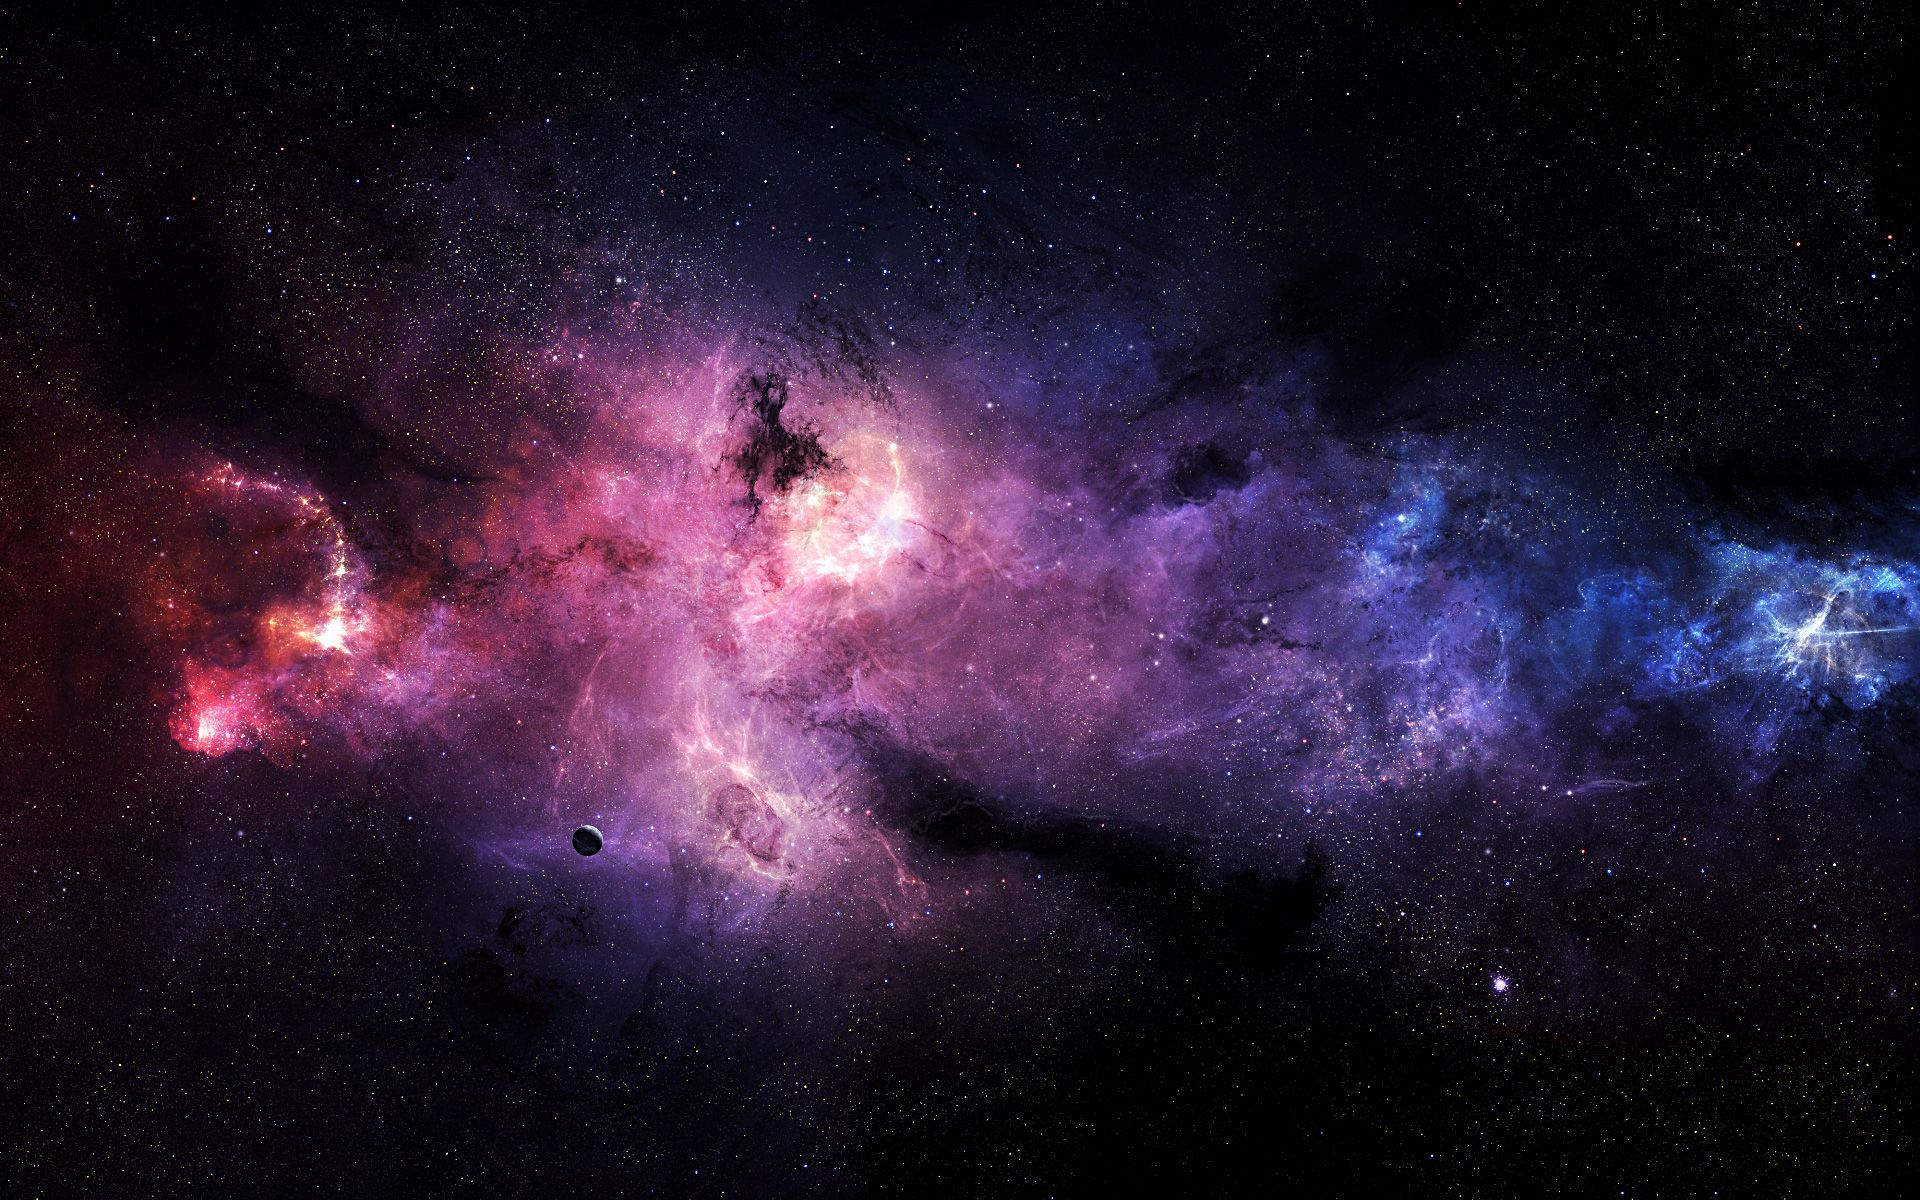
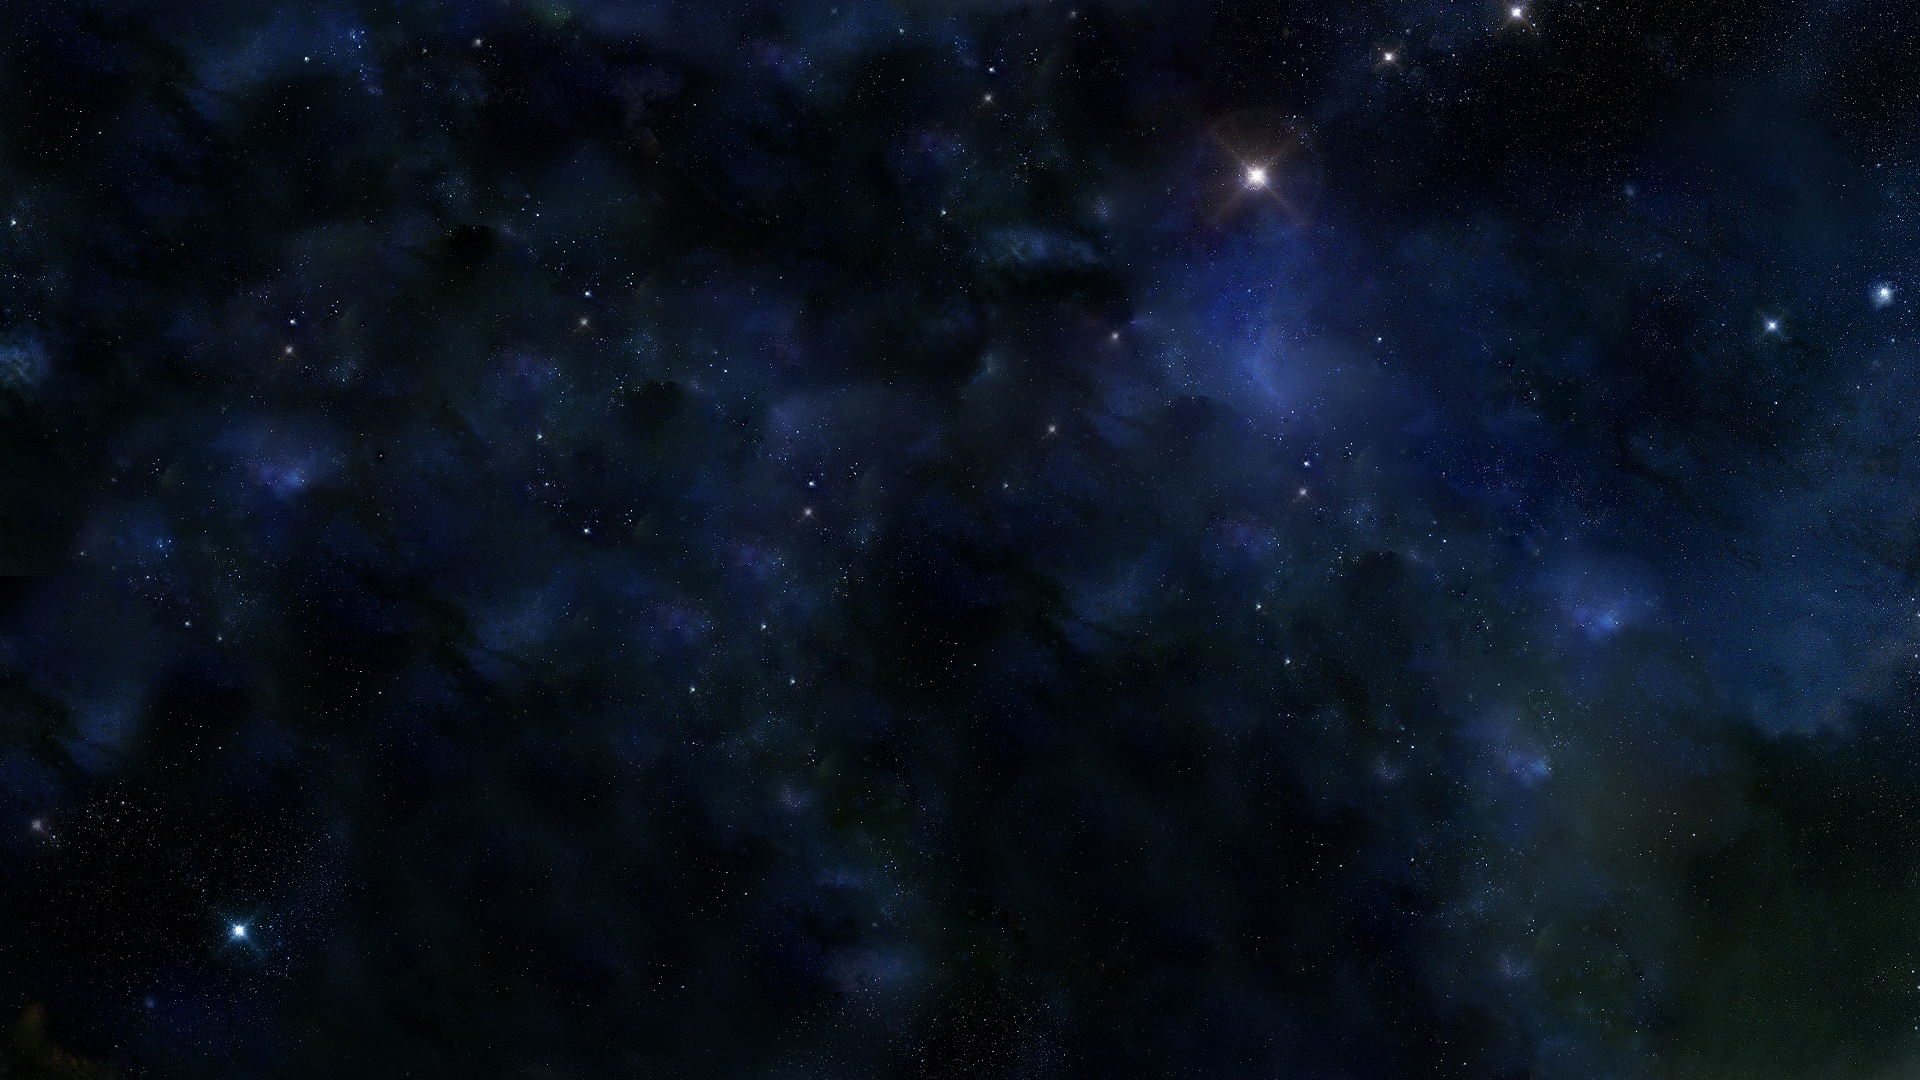
Added start and win screens, changed game background image

diff --git a/andromeda.py b/andromeda.py
@@ -1,7 +1,7 @@
 import pygame, random
 pygame.init();
 
-from pygame.locals import QUIT, K_ESCAPE, KEYDOWN, K_DOWN, K_LEFT, K_UP, K_RIGHT, KEYUP, K_SPACE
+from pygame.locals import QUIT, KEYDOWN, K_DOWN, K_LEFT, K_UP, K_RIGHT, KEYUP, K_SPACE, K_RETURN
 
 X_MAX, Y_MAX = 800, 600
 
@@ -16,7 +16,19 @@ LEFT, RIGHT, UP, DOWN = 0, 1, 3, 4
 START, STOP = 0, 1
 
 
-#Start screen
+class Start(pygame.sprite.Sprite):
+    def __init__(self):
+        super(Start, self).__init__()
+        self.image = pygame.Surface((300, 100))
+        self.rect = self.image.get_rect()
+        self.rect.center = (X_MAX/2, Y_MAX/2)
+        self.font = pygame.font.Font("fonts/ScreenMatrix.ttf", 30)
+
+    def update(self):
+        begin = self.font.render("PRESS ENTER TO START", True, (255, 255, 255))
+        self.image.fill((0, 0, 0))
+        self.image.set_colorkey((0, 0, 0))
+        self.image.blit(begin, (30, 30))
 
 class Asteroid(pygame.sprite.Sprite):
     def __init__(self):
@@ -185,29 +197,13 @@ class Spaceship(pygame.sprite.Sprite):
             #edit so that spaceship can't hide out beyond the screen
 
     def steer(self, direction, operation):
-        v = 10
+        v = 8
         if operation == START:
             if direction in (UP, DOWN):
                 self.dy = {UP: -v, DOWN: v}[direction]
-                # if direction == UP:
-                #     self.image = pygame.image.load("images/spaceship.png").convert_alpha()
-                #     self.image = pygame.transform.smoothscale(self.image, (55, 75)) 
-
-                # if direction == DOWN:
-                #     self.image = pygame.image.load("images/spaceship_d.png").convert_alpha()
-                #     self.image = pygame.transform.smoothscale(self.image, (55, 75))
 
             if direction in (LEFT, RIGHT):
-                self.dx = {LEFT: -v, RIGHT: v}[direction]
-                # if direction == RIGHT:
-                #     self.image = pygame.image.load("images/spaceship_r.png").convert_alpha()
-                #     self.image = pygame.transform.smoothscale(self.image, (75, 55))
-
-                # if direction == LEFT:
-                #     self.image = pygame.image.load("images/spaceship_l.png").convert_alpha()
-                #     self.image = pygame.transform.smoothscale(self.image, (75, 55))                    
-
-        #edit this so that no movement can result from two or more keys pressed simultaneously
+                self.dx = {LEFT: -v, RIGHT: v}[direction]                  
 
         if operation == STOP:
             if direction in (UP, DOWN):
@@ -228,12 +224,28 @@ class Particle(pygame.sprite.Sprite):
         self.image.fill((255, 255, 255))
         #maybe draw a more creative shape 
         self.rect = self.image.get_rect()
-        self.rect.center = (x-2, y-40)
+        self.rect.center = (x-1, y-40)
 
     def update(self):
         self.rect.y -=15
         if self.rect.y < -10:
             self.kill()
+
+# class Bits(pygame.sprite.Sprite):
+#     def __init__(self, asteroid):
+#         super(Bits, self).__init__()
+#         self.image = pygame.image.load("images/asteroid_sm_1.png").convert_alpha()
+#         self.image = pygame.transform.smoothscale(self.image, (30, 30))
+#         self.rect = self.image.get_rect()
+#         self.asteroid = asteroid
+
+#     def update(self):
+#         if self.rect.left < 0 or self.rect.right > X_MAX:
+#             speed5[0] = -speed5[0]
+#         if self.rect.top < 0 or self.rect.bottom > Y_MAX:
+#             speed5[1] = -speed5[1]
+
+#         self.rect = self.rect.move(speed5)
 
 class Status(pygame.sprite.Sprite):
     def __init__(self, ship):
@@ -241,7 +253,7 @@ class Status(pygame.sprite.Sprite):
         self.image = pygame.Surface((X_MAX, 30))
         self.rect = self.image.get_rect()
         self.rect.bottomleft = 25, Y_MAX
-        self.font = pygame.font.Font("ScreenMatrix.ttf", 22)
+        self.font = pygame.font.Font("fonts/ScreenMatrix.ttf", 22)
         self.ship = ship
 
     def update(self):
@@ -252,25 +264,87 @@ class Status(pygame.sprite.Sprite):
         self.image.set_colorkey((0, 0, 0))
 
 class Lose(pygame.sprite.Sprite):
-    def __init__(self, ship):
+    def __init__(self, ship, asteroids, status):
         super(Lose, self).__init__()
-        self.image = pygame.Surface((300, 100))
+        self.image = pygame.Surface((500, 200))
         self.rect = self.image.get_rect()
         self.rect.center = (X_MAX/2, Y_MAX/2)
-        self.font = pygame.font.Font("ScreenMatrix.ttf", 45)
+        self.font = pygame.font.Font("fonts/ScreenMatrix.ttf", 45)
+        self.font2 = pygame.font.Font("fonts/ScreenMatrix.ttf", 30)
         self.ship = ship
+        self.asteroids = asteroids
+        self.status = status
 
     def update(self):
         sorry = self.font.render("GAME OVER", True, (255, 255, 255))
+        score = self.font2.render("High Score: {}".format(
+            self.ship.score), True, (255, 255, 255))
         self.image.fill((0, 0, 0))
         self.image.set_colorkey((0, 0, 0))
-        #changing the suface color and then removing it creates an outline of that color for text (so long as text is not also that color)
-        if self.ship.health < 0:
+        if self.ship.health <= 0:
             self.ship.kill()
-            self.image.blit(sorry, (30, 30))
+            for asteroid in self.asteroids:
+                asteroid.kill()
+            self.status.kill()
+            self.image.blit(sorry, (120, 80))
+            self.image.blit(score, (132, 120))
                       
-#Win screen
+class Win(pygame.sprite.Sprite):
+    def __init__(self, ship, asteroids, status):
+        super(Win, self).__init__()
+        self.image = pygame.Surface((500, 200))
+        self.rect = self.image.get_rect()
+        self.rect.center = (X_MAX/2, Y_MAX/2)
+        self.font = pygame.font.Font("fonts/ScreenMatrix.ttf", 45)
+        self.font2 = pygame.font.Font("fonts/ScreenMatrix.ttf", 30)
+        self.ship = ship
+        self.asteroids = asteroids
+        self.status = status       
 
+    def update(self):
+        hurray = self.font.render("YOU WIN", True, (255, 255, 255))
+        score = self.font2.render("High Score: {}".format(
+            self.ship.score), True, (255, 255, 255))
+        self.image.fill((0, 0, 0))
+        self.image.set_colorkey((0, 0, 0))
+        if self.ship.score >= 20:
+            self.ship.kill()
+            for asteroid in self.asteroids:
+                asteroid.kill()
+            self.status.kill()
+            self.image.blit(hurray, (155, 80))
+            self.image.blit(score, (132, 120))
+
+# def intro():
+
+#     screen = pygame.display.set_mode((X_MAX, Y_MAX))
+#     pygame.display.set_caption("Andromeda")  
+
+#     background = pygame.image.load('images/background1.jpg').convert()
+#     background = pygame.transform.scale(background, (X_MAX, Y_MAX))
+
+#     start = Start()
+#     letsplay = pygame.sprite.Group()
+#     letsplay.add(start)
+
+#     game_over = False
+
+#     while not game_over:
+#         for event in pygame.event.get():
+#             if event.type == QUIT:
+#                 game_over = True
+#             if not game_over:
+#                 if event.type == KEYDOWN and event.key == K_RETURN:
+#                     return
+
+#         screen.blit(background, (0, 0))
+#         letsplay.update()
+#         letsplay.draw(screen)
+#         pygame.display.flip()
+
+#     pygame.quit()
+
+# intro()
 
 def main():
 
@@ -280,17 +354,19 @@ def main():
     background = pygame.image.load('images/background1.jpg').convert()
     background = pygame.transform.scale(background, (X_MAX, Y_MAX))
 
-    all_sprites = pygame.sprite.Group() #list of all sprites
-    asteroids = pygame.sprite.Group() #list of all asteroids
-    weaponfire = pygame.sprite.Group() #list of particles
+    all_sprites = pygame.sprite.Group() 
+    asteroids = pygame.sprite.Group() 
+    weaponfire = pygame.sprite.Group() 
 
     ship = Spaceship(all_sprites, weaponfire)
+    #bits = Bits(asteroids)
     status = Status(ship)
-    lose = Lose(ship)
-
+    lose = Lose(ship, asteroids, status)
+    win = Win(ship, asteroids, status)
+    
     asteroids.add(Asteroid(), Asteroid2(), Asteroid3(), Asteroid4(), Asteroid5(), Asteroid6())
 
-    all_sprites.add(ship, status, lose, asteroids)
+    all_sprites.add(ship, status, asteroids) #add start, win, lose later
 
     game_over = False
 
@@ -322,8 +398,6 @@ def main():
                         ship.steer(UP, STOP)
                     if event.key == K_SPACE:
                         ship.shoot(STOP)
-
-                    #modify so that pressing two or more steer keys results in no movement
 
         hits = pygame.sprite.spritecollide(ship, asteroids, True)
         for hit in hits:
